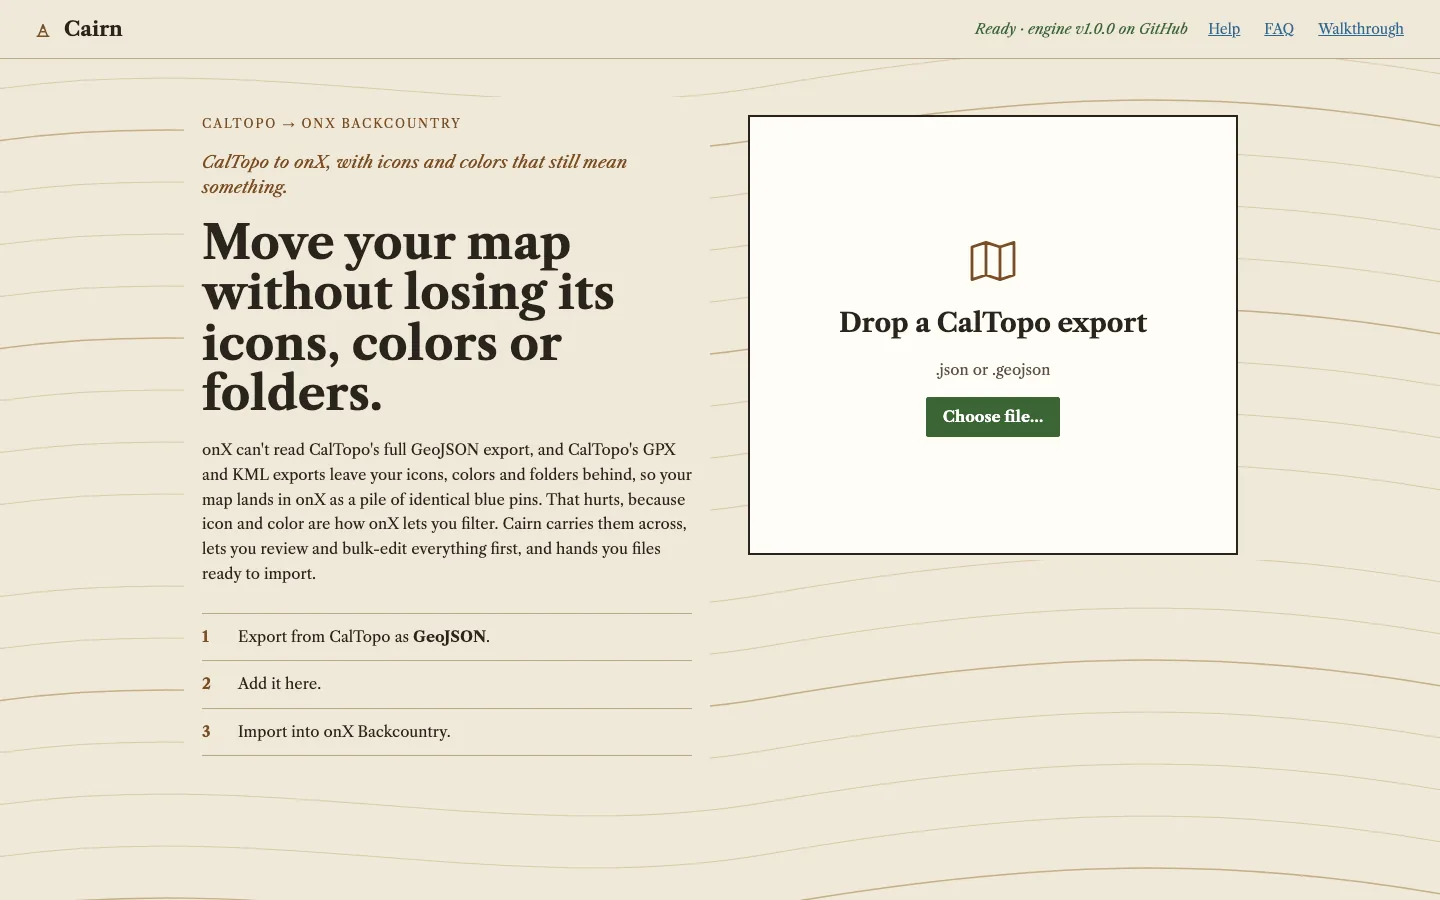
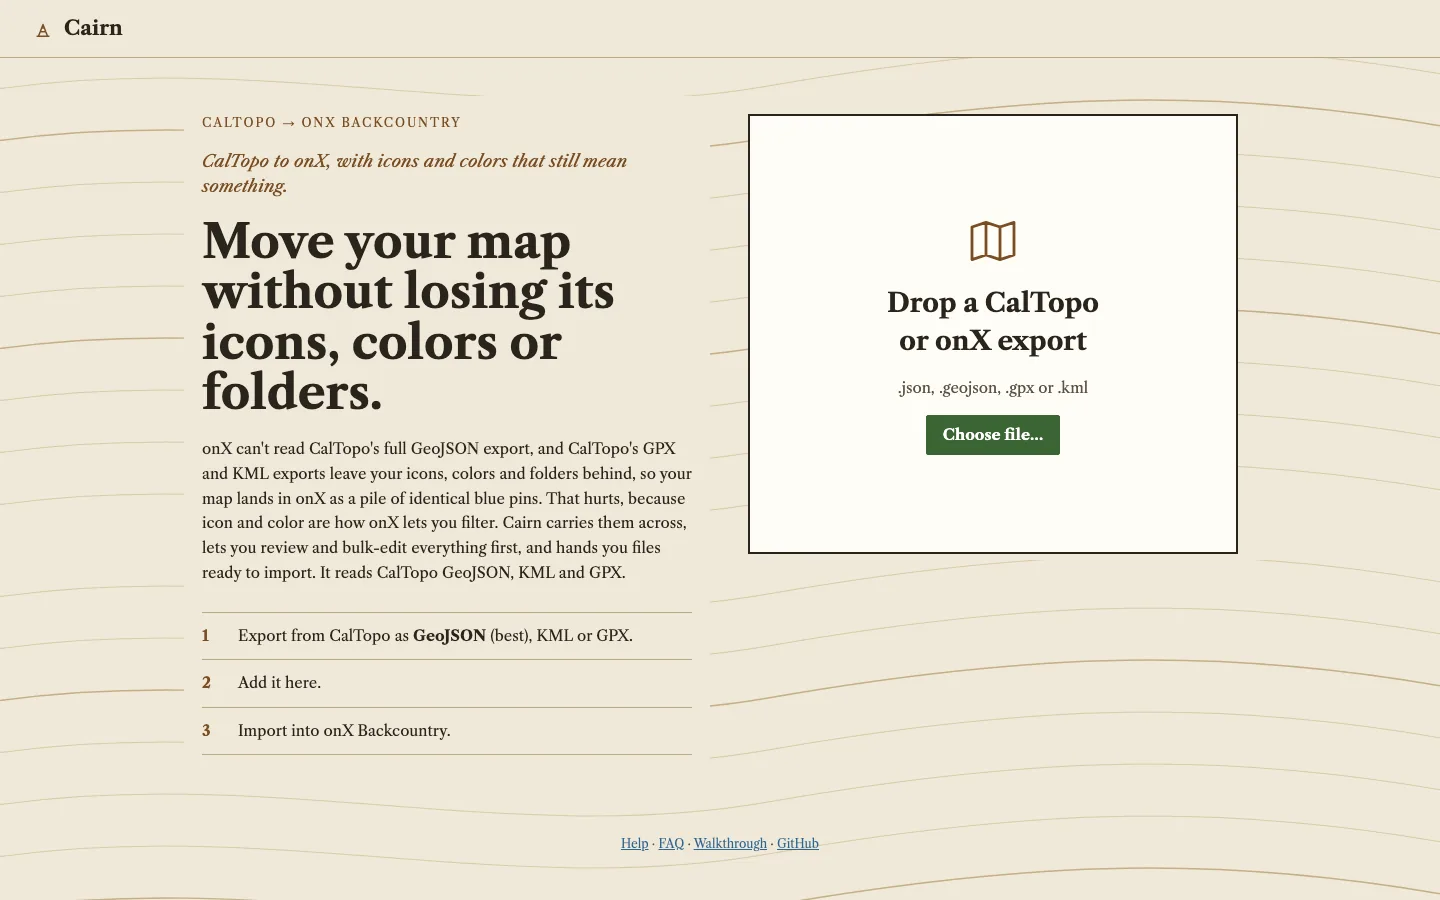
docs(walkthrough): retake every shot; add a folders step
All six screenshots retaken from the current app (Bitterroots, 1440x900,
WebP q82, by scripts/make_walkthrough_shots.py). New step "Sort items into
folders": six rows dragged onto + New folder, then the named folder. The
export shot is now 08-export.webp. The script takes BASE_URL, waits for
body[data-engine="ready"], and can also write PNGs (SHOTS_PNG). Copy
tightened; the bulk caption says Save, not Apply.

Claude-Session: https://claude.ai/code/session_019BuYxNAfXvJtTFx663jVwh

diff --git a/web/walkthrough.html b/web/walkthrough.html
@@ -1,7 +1,8 @@
 <!doctype html>
 <!-- Hand-written static page (no JS). Screenshots and the numbers below come from
      scripts/make_walkthrough_shots.py run against tests/fixtures/bitterroots/Bitterroots__Complete_.json;
-     the raw numbers are saved in web/walkthrough/numbers.json. Re-run that script if the UI changes. -->
+     the raw numbers are saved in web/walkthrough/numbers.json. Re-run that script if the UI changes
+     (BASE_URL=http://127.0.0.1:<port>/ for a dev server on another port). -->
 <html lang="en">
 <head>
 <meta charset="utf-8">
@@ -24,15 +25,15 @@
   <main class="doc-main">
     <span class="kicker">Walkthrough</span>
     <h1>What Cairn changes between CalTopo and onX</h1>
-    <p class="wt-lede">This page follows one real map, the Bitterroots sample that ships with Cairn's tests, from a CalTopo
-      export to a set of onX-ready files. Every Cairn screenshot below is the actual app, no mock-ups. The map has
+    <p class="wt-lede">This page follows one real map, the Bitterroots sample from Cairn's tests, from a CalTopo
+      export to onX-ready files. Every screenshot is the real app. The map has
       <strong>177 markups in 10 folders</strong>: 68 waypoints, 92 lines and 17 areas.</p>
 
     <ul class="wt-stats" aria-label="The map in numbers">
       <li><b>68</b><span>waypoints that a plain CalTopo GPX or KML export would hand to onX with no icon</span></li>
       <li><b>43</b><span>of those get a specific onX icon from Cairn right away, across 12 different icons</span></li>
       <li><b>25</b><span>fall back to the default pin and are flagged for you to review</span></li>
-      <li><b>10</b><span>CalTopo folders, each turned into its own numbered import</span></li>
+      <li><b>10</b><span>CalTopo folders, each its own numbered import</span></li>
     </ul>
     <p class="wt-note">Computed by loading the fixture in the real app and reading its data
       (<code>scripts/make_walkthrough_shots.py</code>). "Would arrive with no icon" is the project's documented
@@ -41,9 +42,10 @@
     <section class="wt-step" id="before">
       <span class="step-tag">Before</span>
       <h2>What the plain export gives onX</h2>
-      <p>onX Backcountry only imports GPX and KML. CalTopo's own export page says those two formats lose line and marker
-        styles and folder organization. The one CalTopo export that keeps everything, GeoJSON, is the one onX can't open. Cairn reads GeoJSON, KML and GPX, so you can start from any of them (GeoJSON keeps the most).
-        A CalTopo GPX carries names, coordinates, notes and Garmin line-color names, and nothing onX can use for icons or folders.</p>
+      <p>onX Backcountry imports only GPX and KML. CalTopo's own export page says those two formats lose line and marker
+        styles and folder organization. The one CalTopo export that keeps everything, GeoJSON, is the one onX can't open.
+        Cairn reads all three, so you can start from any of them (GeoJSON keeps the most). A CalTopo GPX carries names,
+        coordinates, notes and Garmin line-color names, and nothing onX can use for icons or folders.</p>
       <div class="tbl-wrap"><table class="tbl wt-cmp">
         <thead><tr><th>Carried by</th><th>CalTopo GPX / KML</th><th>CalTopo GeoJSON, through Cairn</th></tr></thead>
         <tbody>
@@ -72,20 +74,20 @@
     <section class="wt-step" id="found">
       <span class="step-tag">What Cairn finds</span>
       <h2>Your folders and icons survive the trip</h2>
-      <p>The sample's 10 folders appear on the left with their counts, and every waypoint shows its onX icon name next to a
-        drawing of the marker. Cairn matched 43 of the 68 waypoints to a specific icon, such as Parking (10), Climbing (9), Summit (6) and
-        Shelter (4), from the CalTopo symbol or from words in the name. Hover any marker to see why it was chosen.</p>
+      <p>The 10 folders are on the left with their counts, and every waypoint shows its onX icon name next to a drawing
+        of the marker. Cairn matched 43 of the 68 waypoints to a specific icon, such as Parking (10), Climbing (9), Summit (6)
+        and Shelter (4), from the CalTopo symbol or words in the name. Hover a marker to see why it was chosen.</p>
       <figure class="wt-fig"><img src="walkthrough/02-loaded.webp" width="1440" height="900" alt="The loaded Bitterroots map with a folder list on the left and a table of waypoints with icons">
-        <figcaption>The Bitterroots map loaded: folders and icon filters on the left, every item editable on the right.</figcaption></figure>
+        <figcaption>The map loaded: folders and filters on the left, every item editable on the right.</figcaption></figure>
     </section>
 
     <section class="wt-step" id="flagged">
       <span class="step-tag">What Cairn flags</span>
       <h2>25 waypoints need a decision</h2>
       <p>When the CalTopo symbol is a plain <code>point</code> and the name gives no clue, Cairn doesn't guess. It marks the
-        waypoint <em>Default pin</em>. Here that is 22 plain points ("El Capitan", "Talus field", "Bridge") and 3 flags
-        that Cairn's mapping deliberately sends to the default pin. Ticking <strong>Default pin</strong> in the Icon list
-        shows only those.</p>
+        waypoint <em>Default pin</em>. Here that's 22 plain points ("El Capitan", "Talus field", "Bridge") and 3 flags
+        that Cairn's mapping sends to the default pin on purpose. Tick <strong>Default pin</strong> in the Icon list to
+        see only those.</p>
       <figure class="wt-fig"><img src="walkthrough/03-default-pins.webp" width="1440" height="900" alt="The list filtered to Default pin waypoints, 25 shown">
         <figcaption>Filtered to the 25 flagged waypoints. Many are fine as they are, like mile markers.</figcaption></figure>
     </section>
@@ -93,25 +95,38 @@
     <section class="wt-step" id="fix">
       <span class="step-tag">What you fix</span>
       <h2>One at a time, or many at once</h2>
-      <p>Click a marker to change that one item's icon and color. Pick from onX's 95 icons or its 10 waypoint colors.</p>
+      <p>Click a marker to change that item's icon and color: onX's 95 icons and 10 waypoint colors.</p>
       <figure class="wt-fig"><img src="walkthrough/04-popover.webp" width="1440" height="900" alt="The icon and color popover open on El Capitan, showing the color palette and icon grid">
         <figcaption>The icon and color popover for a single waypoint.</figcaption></figure>
       <p>For a batch, search, tick the rows and choose <strong>Icon &amp; color…</strong>. The dialog shows each item now
-        and after. Here the three Sheafman ridge flags become Summits in one step, which takes the map from 25 flagged
-        waypoints down to 22.</p>
+        and after. Here the three Sheafman ridge flags become Summits in one step, taking the map from 25 flagged
+        waypoints to 22.</p>
       <figure class="wt-fig"><img src="walkthrough/05-bulk-dialog.webp" width="1440" height="900" alt="The multi-item dialog changing three Sheafman waypoints from the default pin to Summit">
-        <figcaption>The same change for several items: a before and after for each one, then Apply.</figcaption></figure>
+        <figcaption>One change for several items: before and after for each, then Save.</figcaption></figure>
+    </section>
+
+    <section class="wt-step" id="folders">
+      <span class="step-tag">Your folders</span>
+      <h2>Sort items into folders</h2>
+      <p>Each folder becomes one onX folder, so set them up here. Drag rows onto a folder in the <strong>Folders</strong>
+        list; tick several first to move them together. Here the six Sheafman rows go onto <strong>+ New folder</strong>.</p>
+      <figure class="wt-fig"><img src="walkthrough/06-folders-drag.webp" width="1440" height="900" alt="Six ticked Sheafman rows being dragged onto + New folder in the Folders list">
+        <figcaption>Dragging six rows onto + New folder.</figcaption></figure>
+      <p>Type the new folder's name and press Enter. Click a folder's name to rename it; a name that's taken offers to
+        merge the two. <strong>More → Move to…</strong> does the same from the keyboard.</p>
+      <figure class="wt-fig"><img src="walkthrough/07-folders-named.webp" width="1440" height="900" alt="The new folder, Sheafman day trip, with its six items, at the end of the Folders list">
+        <figcaption>The new folder, named. Sheafman ridge keeps its other 3 items.</figcaption></figure>
     </section>
 
     <section class="wt-step" id="import">
       <span class="step-tag">What you import</span>
       <h2>Ten imports, one per folder</h2>
-      <p>onX makes one folder per import and names it by date, so Cairn gives you one set of files per CalTopo
-        folder: a box with its name, its files and a Download button. Import each folder's files together, tick the
-        new-folder box, and rename the folder; <code>instructions.txt</code> in the zip says the same and lists every
-        item. Lines go out as GPX tracks and areas as onX areas in GPX.</p>
-      <figure class="wt-fig"><img src="walkthrough/06-export.webp" width="1440" height="900" alt="The export screen: Download all, then one box per folder with its name, its files and a Download button">
-        <figcaption>The export screen. Download all in one zip, or one folder at a time.</figcaption></figure>
+      <p>onX makes one folder per import and names it by date, so Cairn gives you one set of files per folder: a box
+        with its name, its files and a Download button. Import each folder's files together, tick the new-folder box,
+        and rename the folder. <code>instructions.txt</code> in the zip says the same and lists every item. Lines go out
+        as GPX tracks, areas as onX areas in GPX.</p>
+      <figure class="wt-fig"><img src="walkthrough/08-export.webp" width="1440" height="900" alt="The export screen: Download all, then one box per folder with its name, its files and a Download button">
+        <figcaption>The export screen (the map as loaded, 10 folders). Download all in one zip, or one folder at a time.</figcaption></figure>
       <div class="wt-pair">
         <div class="wt-ph"><strong>onX screenshot needed</strong><b>The import dialog with a Cairn batch</b>
           <span>See docs/research/ONX_REIMPORT_AND_SHARING_2026-10-22.md.</span></div>

diff --git a/scripts/make_walkthrough_shots.py b/scripts/make_walkthrough_shots.py
@@ -3,9 +3,11 @@ Bitterroots fixture, driving the real app in headless Chromium at 1440x900.
 
 Needs the dev server:  uv run python web/serve.py
 Run:                   uv run --with pillow python scripts/make_walkthrough_shots.py
+BASE_URL points it at another server (default http://127.0.0.1:8765); SHOTS_PNG, if
+set, is a directory that also gets each shot as a PNG, to look at.
 bypass_csp is fine here; CSP behaviour is checked separately (see tests/web).
 """
-import io, json, pathlib
+import io, json, os, pathlib
 from collections import Counter
 from playwright.sync_api import sync_playwright
 from PIL import Image
@@ -13,10 +15,13 @@ from PIL import Image
 ROOT = pathlib.Path(__file__).resolve().parent.parent
 FIXTURE = ROOT / "tests/fixtures/bitterroots/Bitterroots__Complete_.json"
 OUT = ROOT / "web/walkthrough"
-BASE = "http://127.0.0.1:8765"
+BASE = os.environ.get("BASE_URL", "http://127.0.0.1:8765").rstrip("/")
+PNG_DIR = os.environ.get("SHOTS_PNG")
 
 def save(page, name):
     png = page.screenshot()
+    if PNG_DIR:
+        pathlib.Path(PNG_DIR, f"{name}.png").write_bytes(png)
     im = Image.open(io.BytesIO(png)).convert("RGB")
     im.save(OUT / f"{name}.webp", "WEBP", quality=82, method=6)
 
@@ -24,9 +29,10 @@ def main():
     OUT.mkdir(exist_ok=True)
     with sync_playwright() as p:
         b = p.chromium.launch()
-        pg = b.new_context(bypass_csp=True, viewport={"width": 1440, "height": 900}).new_page()
+        ctx = b.new_context(bypass_csp=True, viewport={"width": 1440, "height": 900})
+        pg = ctx.new_page()
         pg.goto(f"{BASE}/index.html")
-        pg.wait_for_function("window.__cairnReady === true", timeout=90000)
+        pg.wait_for_selector('body[data-engine="ready"]', state="attached", timeout=90000)
         pg.wait_for_timeout(400)
         save(pg, "01-landing")
 
@@ -84,7 +90,36 @@ def main():
         pg.click("#export")
         pg.wait_for_function("window.__cairnExported === true", timeout=120000)
         pg.wait_for_timeout(600)
-        save(pg, "06-export")
+        save(pg, "08-export")
+
+        # Folders, on a fresh load (the export above keeps the map's 10):
+        # tick the six Sheafman rows and drag them onto + New folder.
+        pg = ctx.new_page()
+        pg.goto(f"{BASE}/index.html")
+        pg.wait_for_selector('body[data-engine="ready"]', state="attached", timeout=90000)
+        pg.set_input_files("#file", str(FIXTURE))
+        pg.wait_for_function("window.__cairnLoaded === true", timeout=60000)
+        pg.fill("#filter", "Sheafman")
+        pg.wait_for_timeout(400)
+        pg.evaluate("document.activeElement && document.activeElement.blur()")
+        pg.keyboard.press("ControlOrMeta+a")
+        pg.wait_for_timeout(300)
+        src = pg.locator(".folder tbody tr .name-in").first.bounding_box()
+        dst = pg.locator("#folder-facets .new-folder").bounding_box()
+        x, y = src["x"] + 20, src["y"] + src["height"] / 2
+        pg.mouse.move(x, y); pg.mouse.down(); pg.mouse.move(x + 10, y + 10, steps=3)
+        pg.mouse.move(dst["x"] + dst["width"] / 2, dst["y"] + dst["height"] / 2, steps=8)
+        pg.wait_for_timeout(300)
+        save(pg, "06-folders-drag")
+        pg.mouse.up()
+        pg.wait_for_timeout(300)
+        pg.keyboard.press("ControlOrMeta+a")
+        pg.keyboard.type("Sheafman day trip")
+        pg.keyboard.press("Enter")
+        pg.wait_for_timeout(500)
+        nums["new_folder_items"] = len(pg.evaluate(
+            "DATA.groups.find(g => g.name === 'Sheafman day trip').items"))
+        save(pg, "07-folders-named")
         (OUT / "numbers.json").write_text(json.dumps(nums, indent=1))
         print(json.dumps(nums, indent=1))
         b.close()
